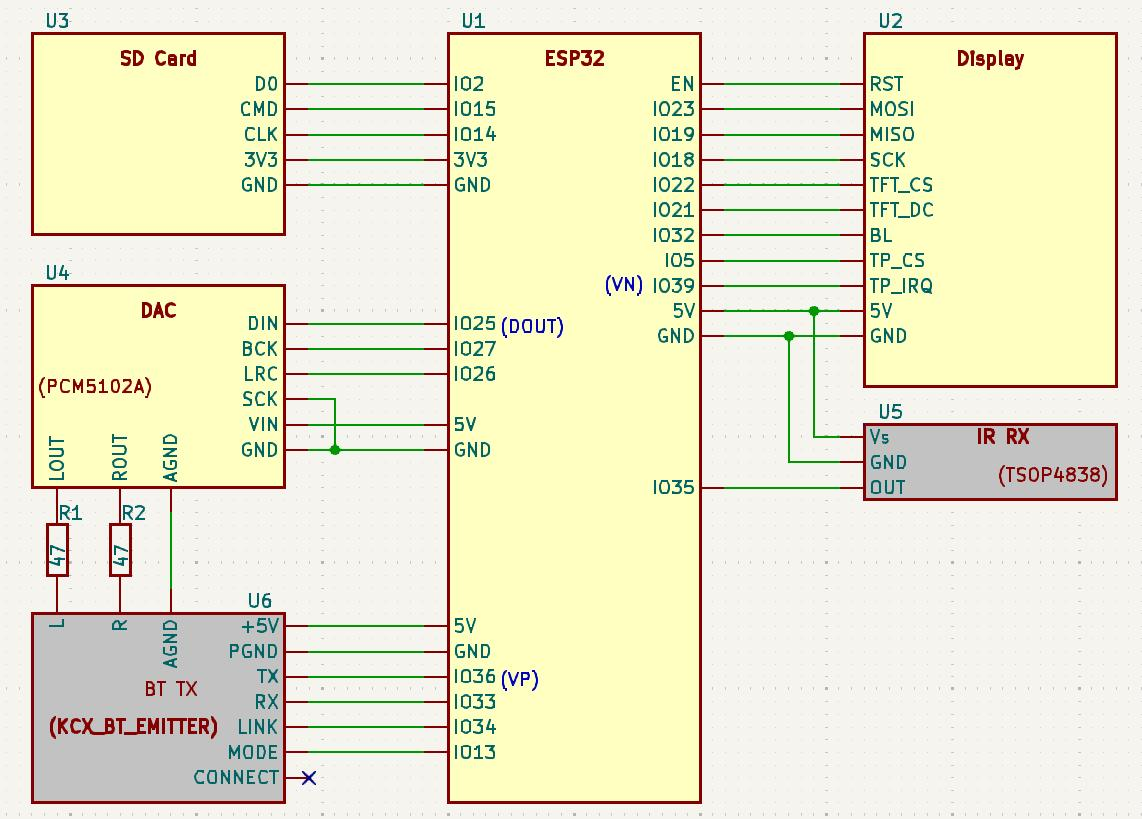
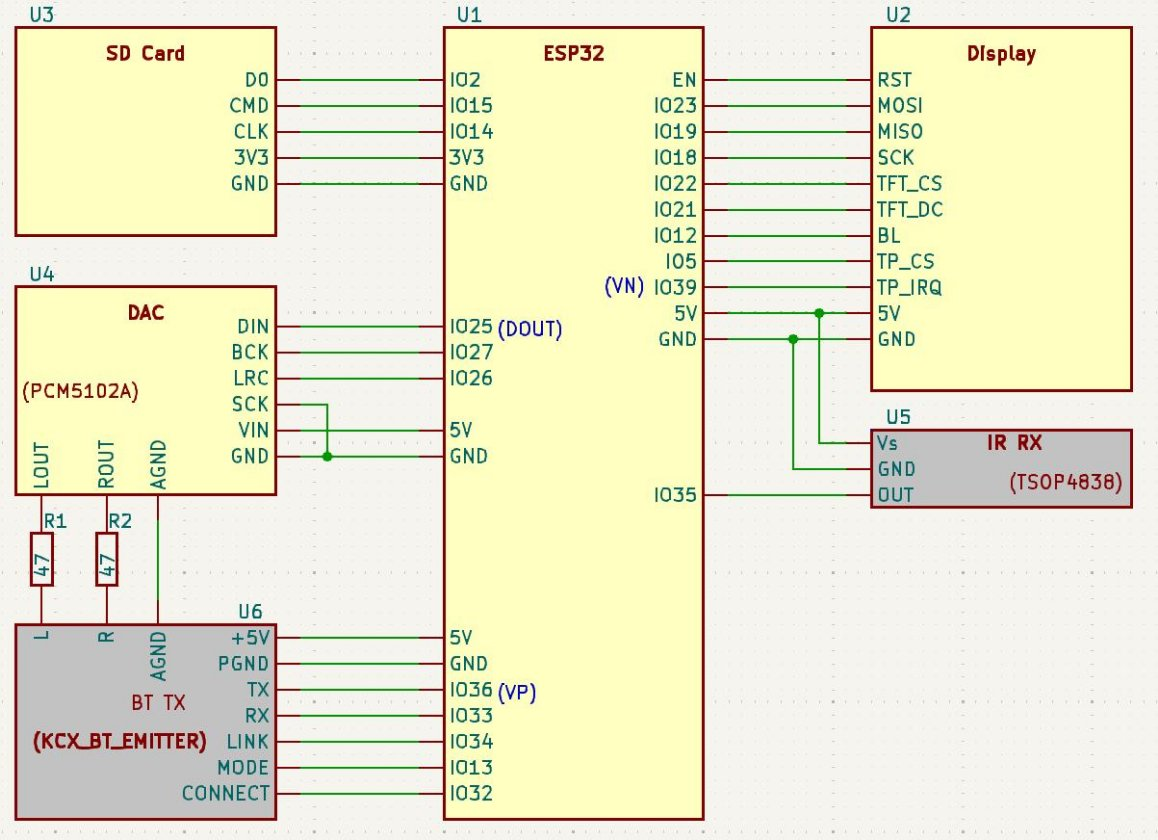
ESP32 new pin assignment GPIO12 --> TFT_BL GPIO32 --> BT_EMITTER_CONNECT

Changed region(s): [[0.0, 0.0, 0.9807, 1.0]]

diff --git a/src/main.cpp b/src/main.cpp
@@ -1343,7 +1343,7 @@ void openAccessPoint() { // if credentials are not correct open AP at 192.168.4.
     IPAddress myIP = WiFi.softAPIP();
     String    AccesspointIP = myIP.toString();
     char      buf[100];
-    sprintf(buf, "WiFi credentials are not correct\nAccesspoint IP: " ANSI_ESC_CYAN "%s", AccesspointIP.c_str());
+    sprintf(buf, "WiFi credentials are not correct \nAccesspoint IP: " ANSI_ESC_CYAN "%s", AccesspointIP.c_str());
     tft.writeText(buf, 0, 0, _dispWidth, _dispHeight, TFT_ALIGN_LEFT, TFT_ALIGN_CENTER, true, false);
     SerialPrintfln("Accesspoint: " ANSI_ESC_RED "IP: %s", AccesspointIP.c_str());
     int16_t n = WiFi.scanNetworks();
@@ -2791,6 +2791,7 @@ void loop() {
 void audio_info(const char* info) {
     if(startsWith(info, "Request")) {              SerialPrintflnCut("AUDIO_info:  ", ANSI_ESC_RED, info);
                                                    if(endsWith(info, "failed!")){
+                                                        audioStopSong();
                                                         WiFi.disconnect();
                                                         log_w("disconnected, wait 35s");
                                                         vTaskDelay(35000 / portTICK_PERIOD_MS);
@@ -3576,6 +3577,7 @@ void kcx_bt_info(const char* info, const char* val) {
 void kcx_bt_status(bool status) { // is always called when the status changes from disconnected to connected and vice versa
 
     if(status) {
+        if(!_f_BTcurPowerState) return;
         const char* mode = bt_emitter.getMode();
         webSrv.send("KCX_BT_connected=", "1");
         if(strcmp(mode, "TX") == 0) pic_BT_mode.setPicturePath("/common/BTgold.jpg");

diff --git a/src/common.h b/src/common.h
@@ -58,7 +58,7 @@
     // Digital I/O used
         #define TFT_CS             22
         #define TFT_DC             21
-        #define TFT_BL             32  // at -1 the brightness menu is not displayed
+        #define TFT_BL             12  // at -1 the brightness menu is not displayed
         #define TP_IRQ             39  // VN
         #define TP_CS               5
         #define SD_MMC_D0           2  // cannot be changed
@@ -84,7 +84,7 @@
         #define BT_EMITTER_TX      36  // RX pin - KCX Bluetooth Transmitter    (-1 if not available)
         #define BT_EMITTER_LINK    34  // high if connected                     (-1 if not available)
         #define BT_EMITTER_MODE    13  // high transmit - low receive           (-1 if not available)
-        #define BT_EMITTER_CONNECT -1
+        #define BT_EMITTER_CONNECT 32  // -1 if not used
 #endif
 
 #ifdef CONFIG_IDF_TARGET_ESP32S3
